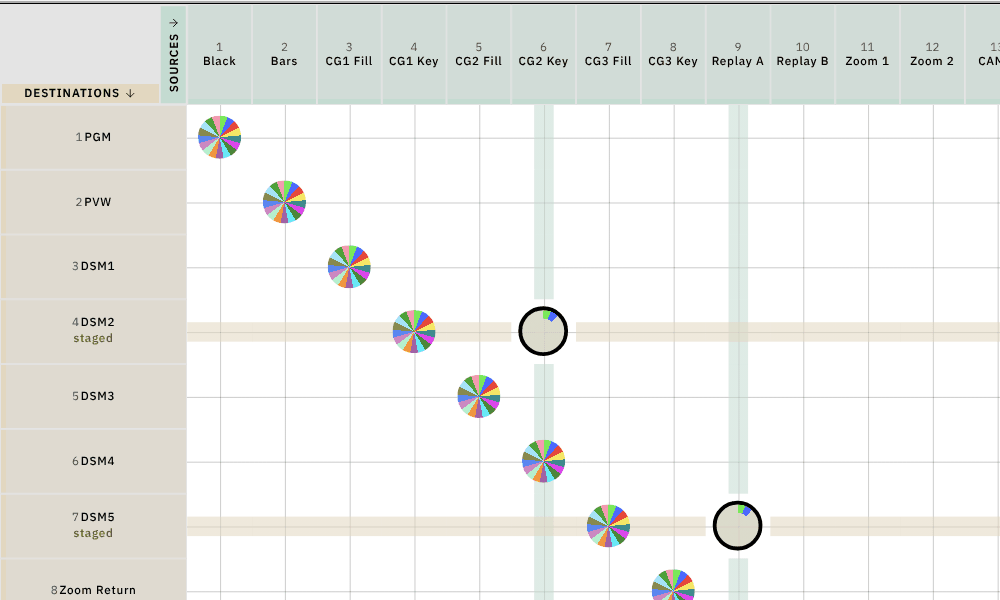
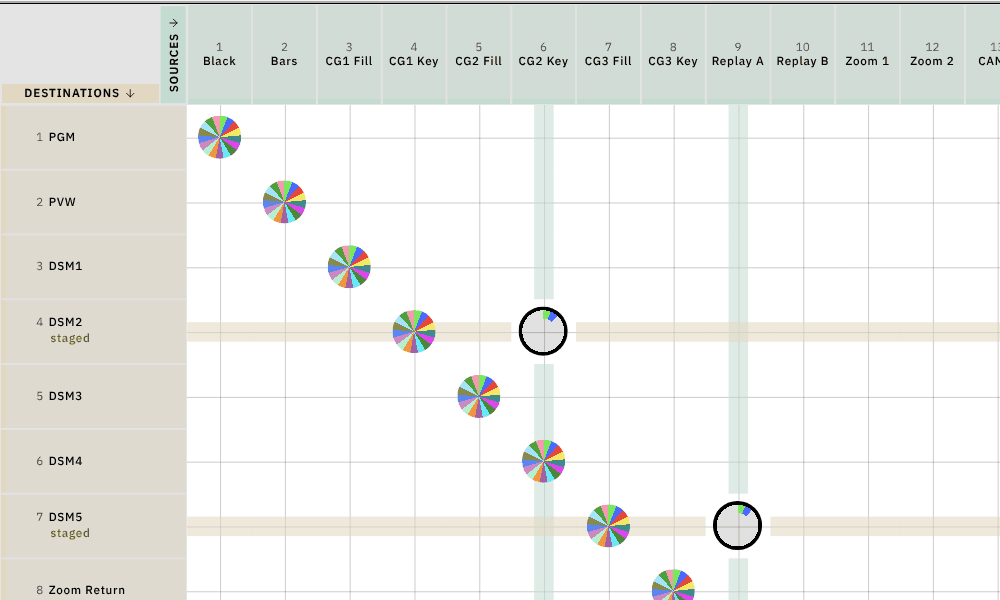
C2-42: draw the staged ring with a gradient (patchbay has no border-radius)
The bands now leave the staged crosspoint itself to the ring.

Claude-Session: https://claude.ai/code/session_01EGyR6KeHGwdd8x7hKiH9Vs

diff --git a/web/gridpanel.css b/web/gridpanel.css
@@ -505,15 +505,15 @@ html:has(.sode-gridpanel) {
   pointer-events: none;
   width: 100%;
 }
-.sode-gridpanel__xp[data-staged-row]::before {
+.sode-gridpanel__xp[data-staged-row]:not([data-s="staged"])::before {
   background-image: linear-gradient(color-mix(in oklab, var(--pb-dest) 55%, transparent), color-mix(in oklab, var(--pb-dest) 55%, transparent));
   background-size: 100% 30%;
 }
-.sode-gridpanel__xp[data-staged-col]::before {
+.sode-gridpanel__xp[data-staged-col]:not([data-s="staged"])::before {
   background-image: linear-gradient(color-mix(in oklab, var(--pb-source) 55%, transparent), color-mix(in oklab, var(--pb-source) 55%, transparent));
   background-size: 30% 100%;
 }
-.sode-gridpanel__xp[data-staged-row][data-staged-col]::before {
+.sode-gridpanel__xp[data-staged-row][data-staged-col]:not([data-s="staged"])::before {
   background-image: linear-gradient(color-mix(in oklab, var(--pb-dest) 55%, transparent), color-mix(in oklab, var(--pb-dest) 55%, transparent)),
     linear-gradient(color-mix(in oklab, var(--pb-source) 55%, transparent), color-mix(in oklab, var(--pb-source) 55%, transparent));
   background-size:
@@ -521,12 +521,15 @@ html:has(.sode-gridpanel) {
     30% 100%;
 }
 /* The staged ring: a full ring 4 px wide in the strong text color with a light wash, 80% of the crosspoint, so a staged
-   crosspoint reads from across the room whatever its levels. It takes the place of the bands on its own crosspoint. */
+   crosspoint reads from across the room whatever its levels. The bands leave its own crosspoint to it. */
 .sode-gridpanel__xp[data-s="staged"]::before {
-  background: color-mix(in oklab, var(--pb-text-strong) 12%, transparent);
-  border: calc(var(--pb-border-w) * 4) solid var(--pb-text-strong);
-  border-radius: 50%;
-  box-sizing: border-box;
+  /* A gradient, not a border: patchbay has no border-radius. The cursor ring is drawn the same way. */
+  background: radial-gradient(
+    closest-side,
+    color-mix(in oklab, var(--pb-text-strong) 12%, transparent) calc(100% - 4 * var(--pb-border-w)),
+    var(--pb-text-strong) calc(100% - 4 * var(--pb-border-w))
+  );
+  clip-path: circle(50%);
   content: "";
   grid-area: 1 / 1;
   height: 80%;

diff --git a/internal/app/gridpaneldesign_browser_test.go b/internal/app/gridpaneldesign_browser_test.go
@@ -68,8 +68,8 @@ func TestChromeGridPanelDesign(t *testing.T) {
 	b.waitFor("the staged ring is whole and strong, and the pie in it is not faded", `(() => {
 		const x = `+gridXp(5, 3)+`, ring = getComputedStyle(x, '::before'), stage = getComputedStyle(x.querySelector('.sode-gridpanel__stage'));
 		const p = document.createElement('i'); p.style.color = 'var(--pb-text-strong)'; x.append(p); const strong = getComputedStyle(p).color; p.remove();
-		return ring.borderTopWidth === '4px' && ring.borderTopStyle === 'solid' && ring.borderTopColor === strong && ring.borderRadius === '50%' &&
-			ring.backgroundColor !== 'rgba(0, 0, 0, 0)' && parseFloat(stage.opacity) === 1;
+		const g = ring.backgroundImage;
+		return g.startsWith('radial-gradient') && g.includes(strong) && g.includes('4px') && ring.clipPath.startsWith('circle') && parseFloat(stage.opacity) === 1;
 	})()`)
 	b.waitFor("the staged row and column have bands, a crosspoint elsewhere has none", `(() => {
 		const band = (x) => getComputedStyle(x, '::before').backgroundImage;
